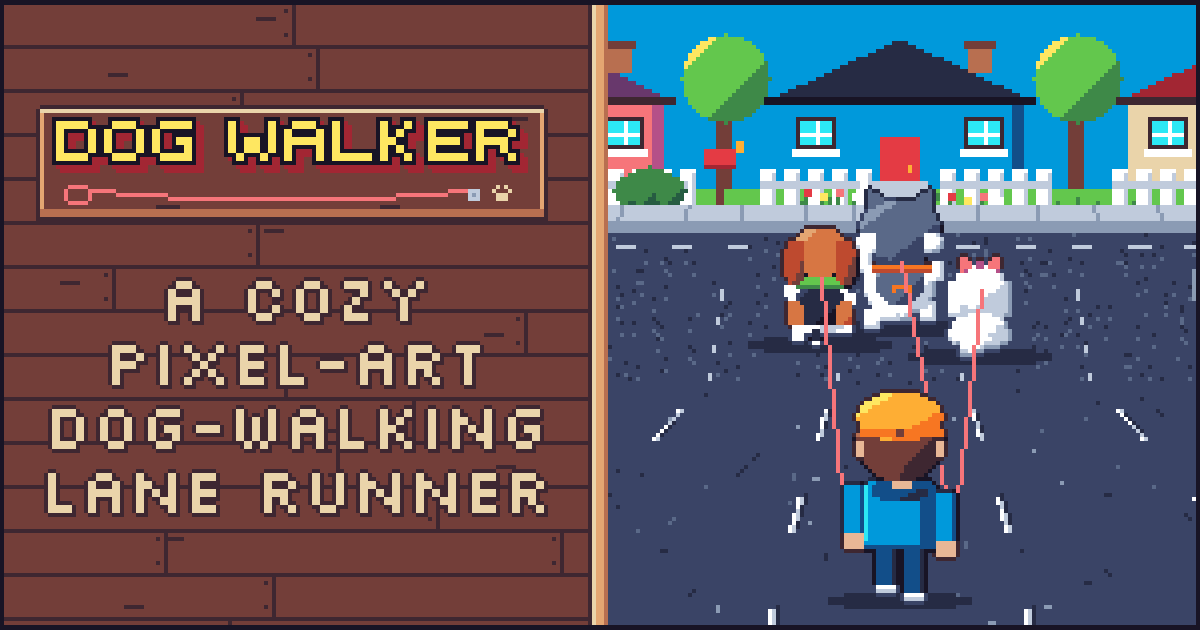
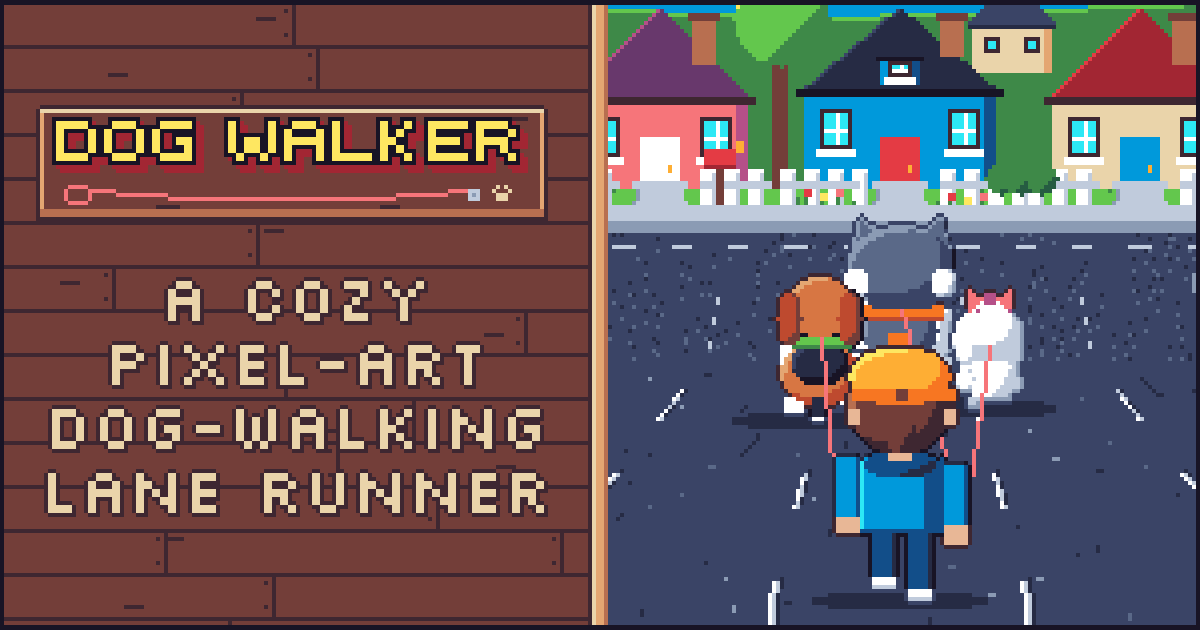
Build the share card from the pack's slot export: share.py lays out the three-dog triangle from layout.json's slots and feet rows, as packFormation.ts does, with the lead's row keyed by the three sizes; regenerate og-image.png

diff --git a/art/tools/share.py b/art/tools/share.py
@@ -47,9 +47,21 @@ VIEW_W = W - 1 - VIEW_X
 BAND_TOP = bd.BASE - 46    # the first backdrop row shown, 46 rows over the far side's ground row
 BAND_ROWS = bd.H - BAND_TOP
 STREET = next(z for z, zone in sn.ZONES.items() if zone["art"] == "woof-way")   # Elm Avenue's zone id
-# The pack's formations, as src/layout/packFormation.ts: each dog's (side, distance ahead of the
-# feet) by pack size, the first dog leading.
-FORMATIONS = {n + 1: [(p["side"], -p["footDy"]) for p in f] for n, f in enumerate(sn.PACK["formations"])}
+# The pack's formation, as src/layout/packFormation.ts: each dog's (side, distance ahead of the
+# feet), the dogs in formation order. One dog leads; two walk side by side; three walk in a
+# triangle, the lead's row keyed by the three sizes and three bigs' side dogs closer in.
+SIDES = {"lead": 0, "left": -1, "right": 1}
+SIZES = {d["id"]: d["size"] for d in sn.GAME["dogs"]}
+
+
+def formation(dogs):
+    feet = sn.PACK["feet"]
+    sizes = [SIZES[d] for d in dogs]
+    rows = [feet["lead"][sizes[0]]] if len(sizes) == 1 else [
+        feet["sideOfThreeBigs"] if sizes == ["big"] * 3 else feet["side"][s] for s in sizes[-2:]]
+    if len(sizes) == 3:
+        rows = [feet["trioLead"][" ".join(sizes)]] + rows
+    return [(SIDES[slot], -row) for slot, row in zip(sn.PACK["slots"][len(dogs) - 1], rows)]
 
 
 # ---------- font-title, read from its BMFont export ----------
@@ -137,7 +149,8 @@ def pack(view, cx, base):
         view.paste(f, x - f.width // 2, feet - f.getbbox()[3] + 1)
         return f
 
-    dogs = [(k, sn.side_dx(k, side), base - d) for k, (side, d) in zip(("dog-koda", "dog-biscuit", "dog-duchess"), FORMATIONS[3])]
+    ids = ("koda", "biscuit", "duchess")   # big, medium, small: formation order
+    dogs = [(f"dog-{d}", sn.side_dx(f"dog-{d}", side), base - row) for d, (side, row) in zip(ids, formation(ids))]
     for k, dx, feet in sorted(dogs, key=lambda d: d[2]):
         stand(k, cx + dx, feet)
     walker = sn.frame("walker-casey", "walk")
